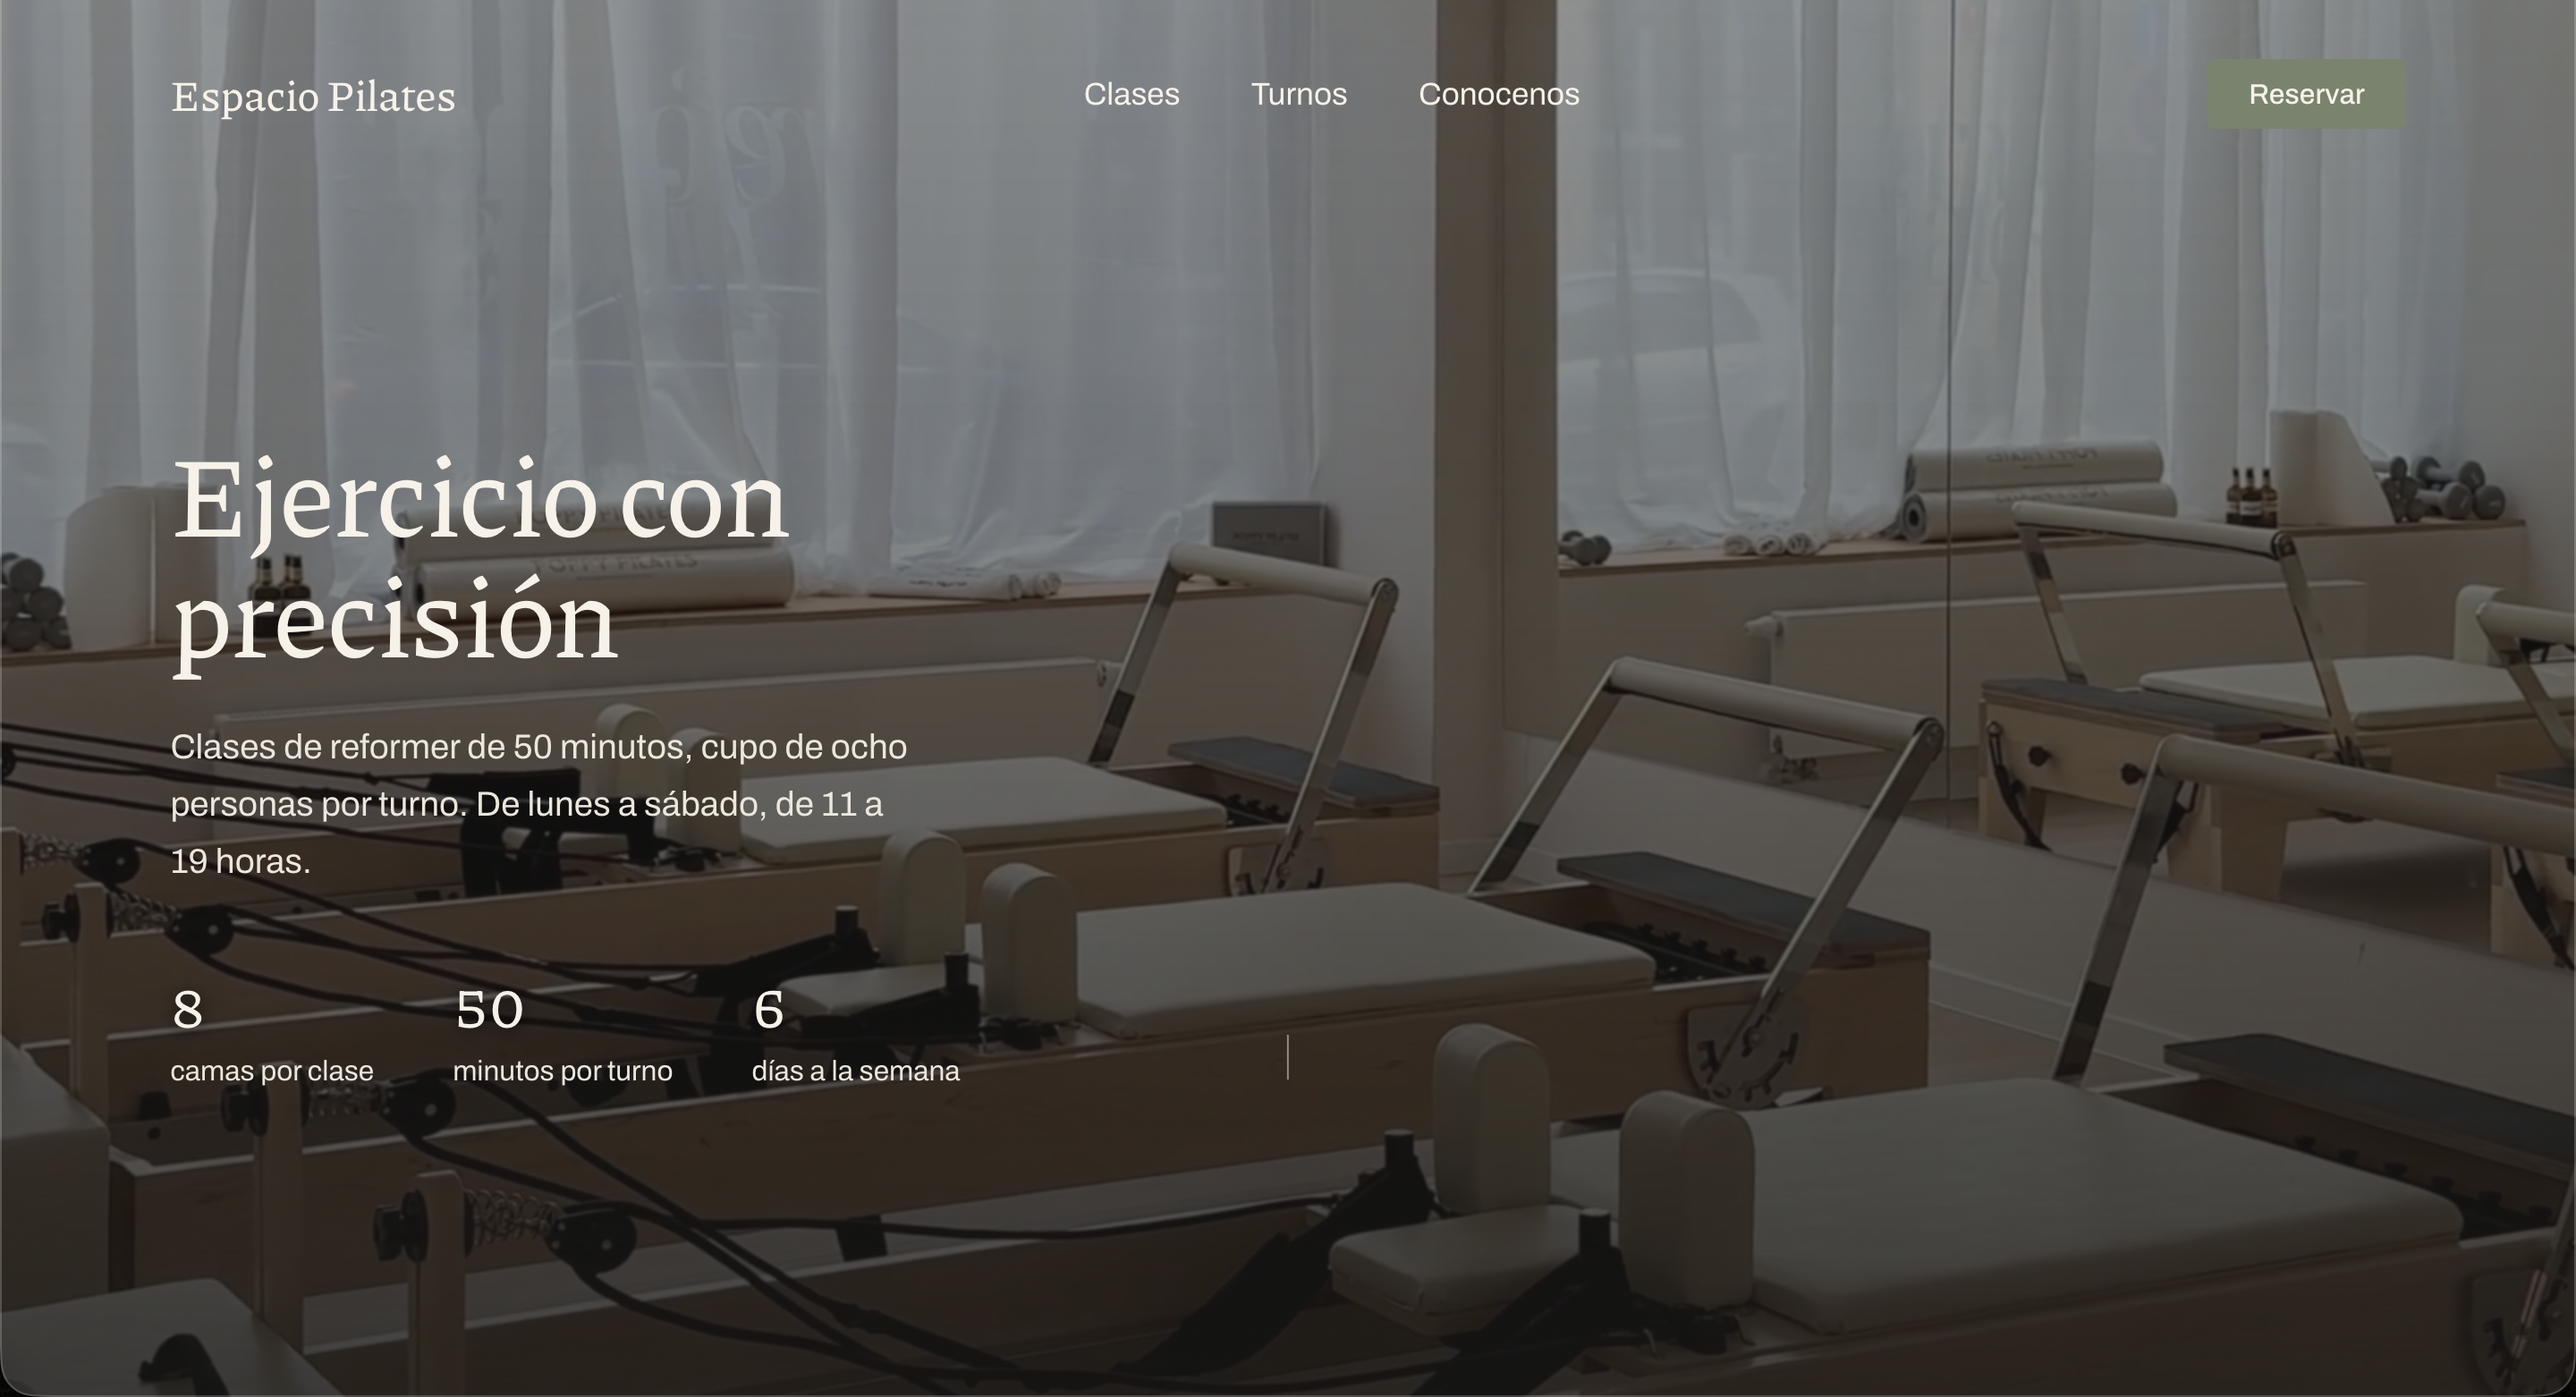
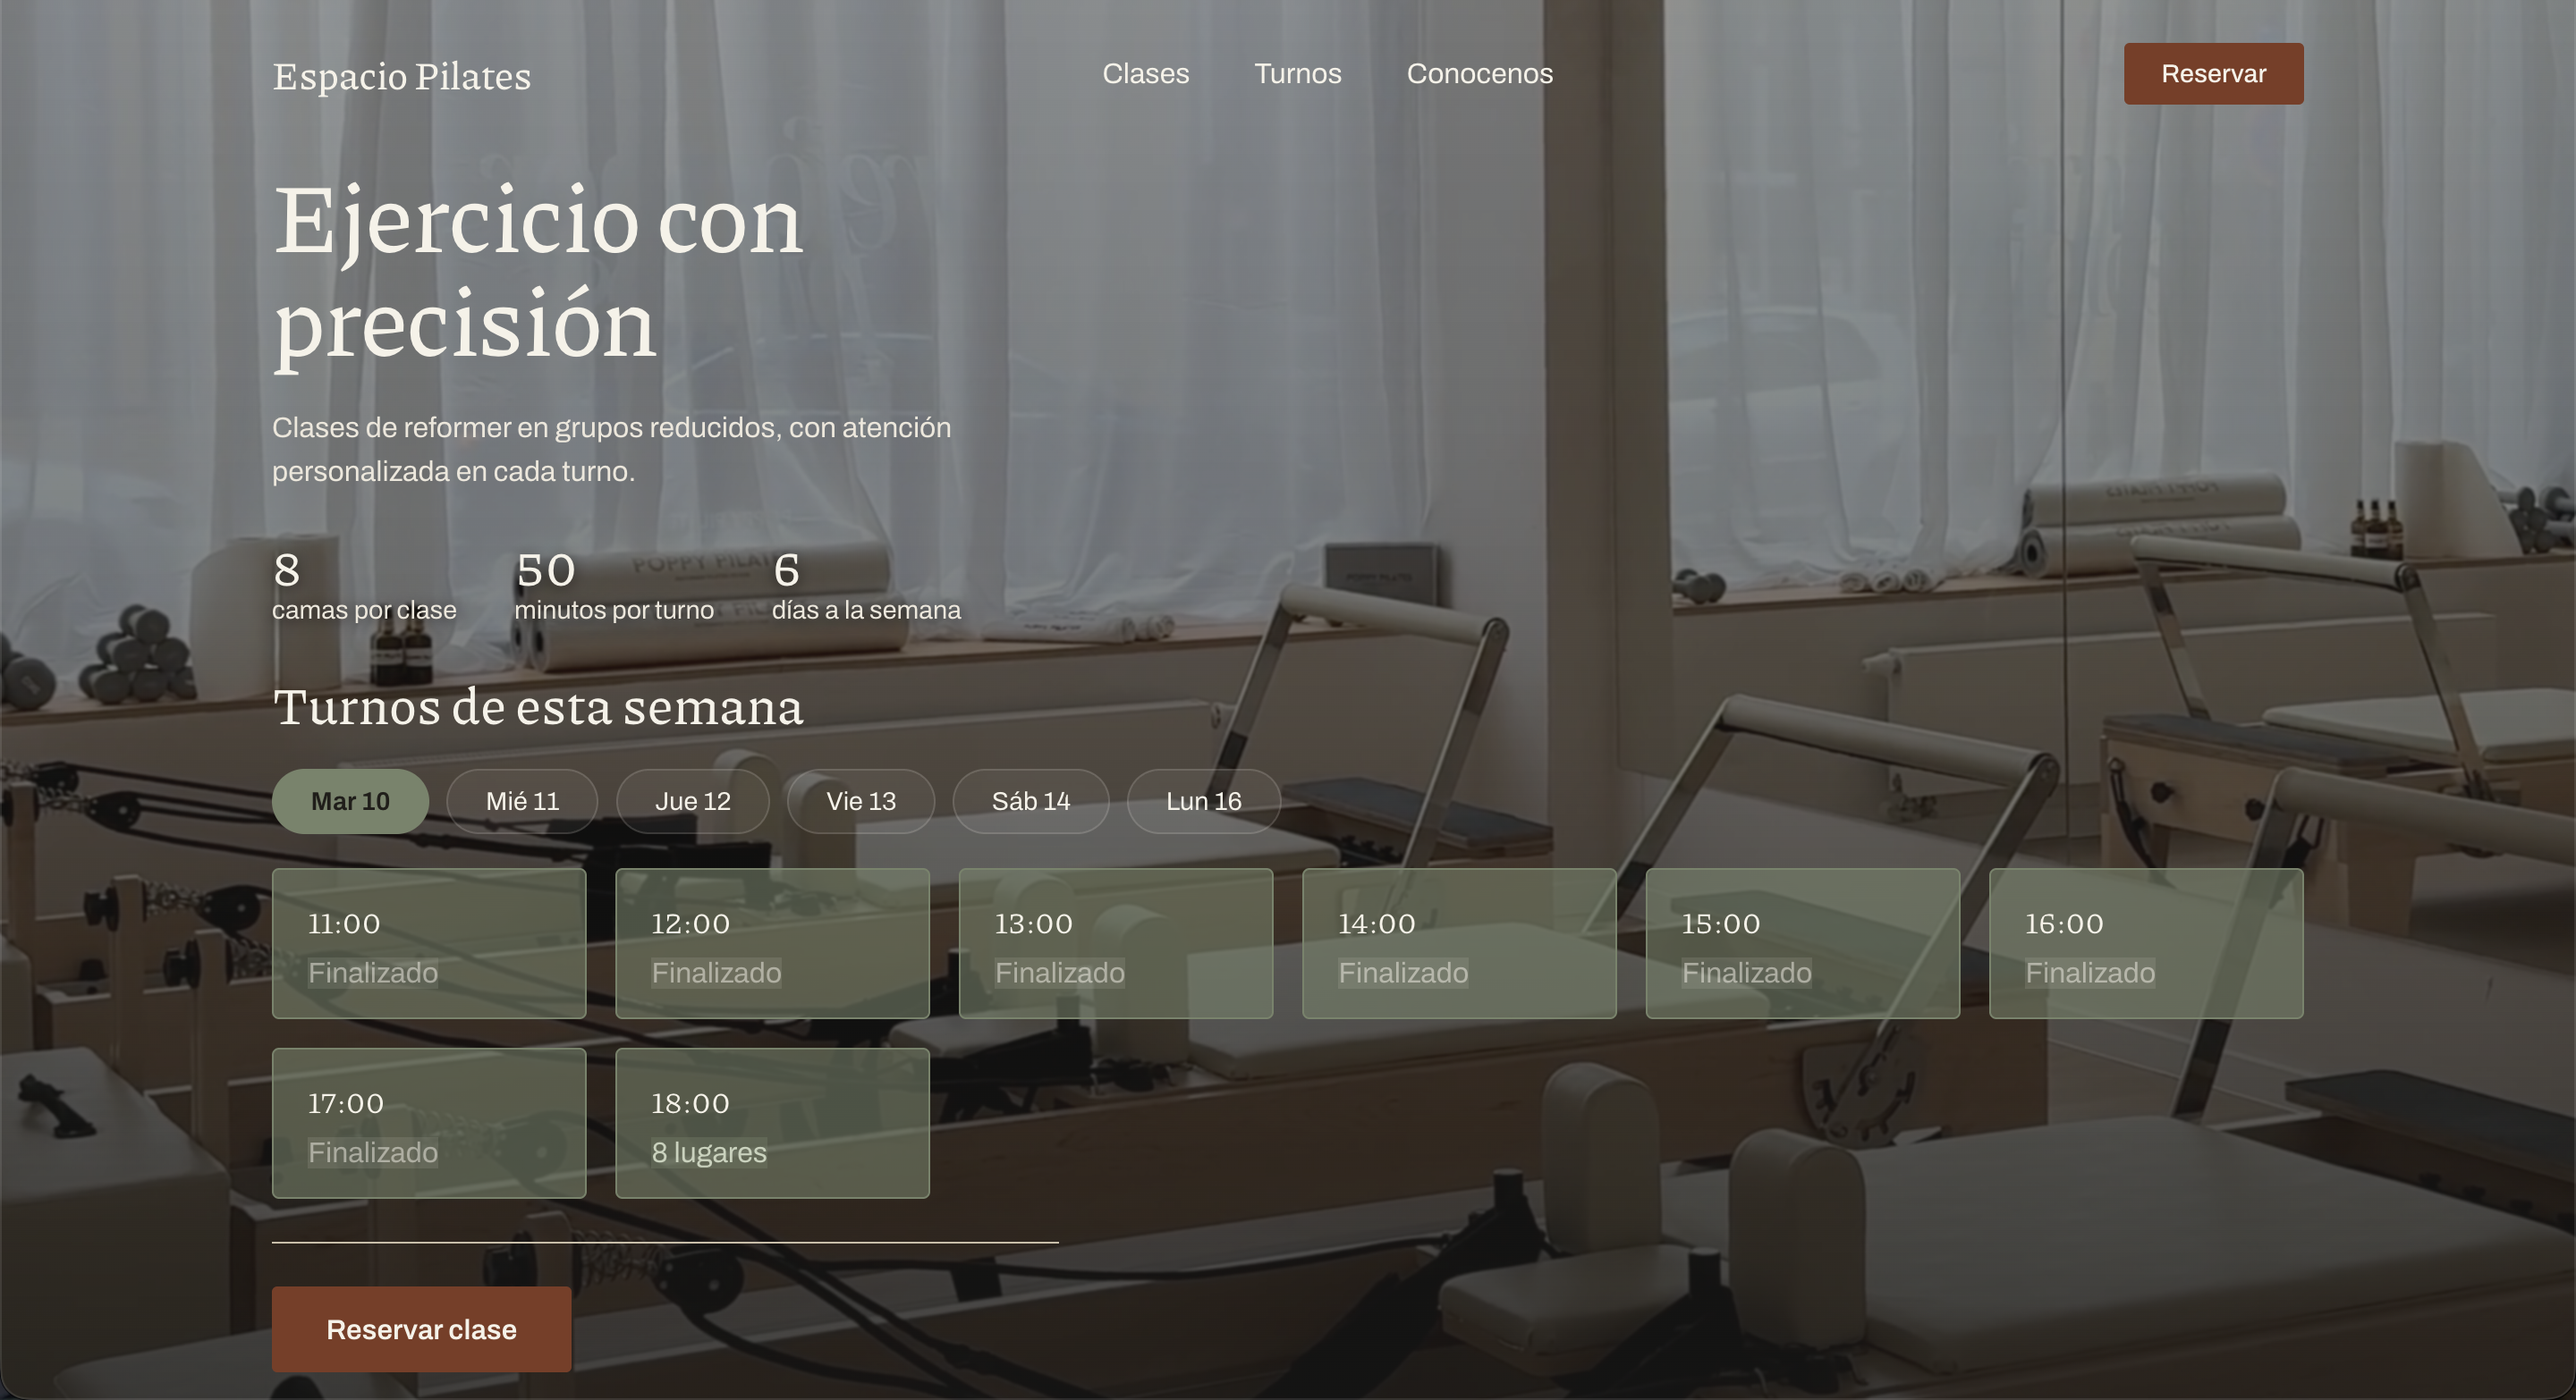
update on projects: description and photos

diff --git a/index.html b/index.html
@@ -132,14 +132,43 @@ I'm continuously learning new technologies and looking for my first opportunity 
   <div class="container">
       <h2>Projects</h2>
 
+
+<!-----------------------ATMOS-------------------------->
+<div class="project">
+  <div class="project-text">
+    <h3>ATMOS deco</h3>
+    <p>
+      E-commerce site for a Uruguay-based brand of 3D-printed bioplastic lamps, live at atmosdeco.uy. Product catalog with search, color variants (including made-to-order colors) and an image gallery. Checkout through the Mercado Pago API, with payments created server-side in Netlify Functions, plus a bank transfer flow; webhooks log every order to Google Sheets. Per-product share previews via a Netlify Edge Function, SEO setup (sitemap, canonical URLs, Search Console), and a responsive glassmorphism UI in vanilla HTML/CSS/JS.
+    </p>
+
+    <div class="project-tags">
+      <span>HTML</span>
+      <span>CSS</span>
+      <span>JavaScript</span>
+      <span>Netlify Functions</span>
+      <span>Mercado Pago API</span>
+      <span>SEO</span>
+      <span>Responsive</span>
+
+    </div>
+  </div>
+
+  <div class="project-media">
+    <img src="img/atmos.png" alt="ATMOS deco">
+    <div class="project-buttons">
+      <a href="https://atmosdeco.uy" class="btn">Live Demo</a>
+      <a href="https://github.com/okokchristian/ATMOSdeco.git" class="btn outline">GitHub</a>
+    </div>
+  </div>
+</div>
+
 <!-------------------------ESPACIO PILATES -------------------------->
 
 <div class="project">
   <div class="project-text">
     <h3>Espacio Pilates</h3>
     <p>
-      Booking system for a fictional pilates studio, with a Firebase/Firestore backend: real-time weekly agenda organized in day tabs, a reservation modal with form validation (name, email, phone), and Firestore transactions to prevent race conditions when multiple people book at the same time. Includes Firestore security rules (verified through manual penetration testing) that protect customer data and prevent client-side tampering with seat counts. A Node.js admin script (Firebase Admin SDK) automates weekly maintenance: resets availability across 44 time slots and archives the week's reservations to a Google Sheets history log, synced in real time via Zapier.
-    </p>
+Booking system for a fictional pilates studio, built on Firebase/Firestore. Real-time weekly agenda with day tabs and a validated reservation modal; Firestore transactions prevent double bookings when several people book the same slot. Security rules, manually penetration-tested, protect customer data and block client-side tampering with seat counts. A Node.js admin script (Firebase Admin SDK) resets availability across 44 time slots every week and archives reservations to a Google Sheets log via Zapier.    </p>
 
     <div class="project-tags">
   <span>Personal Project</span>
@@ -148,6 +177,7 @@ I'm continuously learning new technologies and looking for my first opportunity 
   <span>JavaScript</span>
   <span>Firebase</span>
   <span>Node.js</span>
+  <span>Zapier</span>
   <span>Responsive</span>
 </div>
   </div>
@@ -162,35 +192,9 @@ I'm continuously learning new technologies and looking for my first opportunity 
 </div>
 
 <!---------------------------------------------------------------------->
-    
-<!------------------
-<div class="project">
-  <div class="project-text">
-    <h3>ATMOS deco</h3>
-    <p>
-      Multi-page e-commerce site for a Uruguay-based brand selling handcrafted, 3D-printed bioplastic lamps. Built a full product catalog with search, an animated mobile nav, and an FAQ modal — all in vanilla HTML/CSS/JS. Integrated Mercado Pago payment links with dedicated status pages for a complete checkout flow, no backend required. Fully responsive, with glassmorphism UI and scroll-triggered animations throughout.
-    </p>
 
-    <div class="project-tags">
-      <span>Personal Project</span>
-      <span>HTML</span>
-      <span>CSS</span>
-      <span>JavaScript</span>
-      <span>Responsive</span>
-    </div>
-  </div>
-
-  <div class="project-media">
-    <img src="img/atmos.png" alt="ATMOS deco">
-    <div class="project-buttons">
-      <a href="https://atmosdeco.netlify.app/" class="btn">Live Demo</a>
-      <a href="https://github.com/okokchristian/ATMOSdeco.git" class="btn outline">GitHub</a>
-    </div>
-  </div>
-</div>
------------------------>
-
- <!----------------- PROYECTO LANDING ARTISTA --------->
+<!----------------- PROYECTO LANDING ARTISTA --------->
+<!-------------
 <div class="project">
   <div class="project-text">
     <h3>Artist Landing Page</h3>
@@ -217,7 +221,7 @@ I'm continuously learning new technologies and looking for my first opportunity 
     </div>
   </div>
 </div>
-
+-----!>
 
 <!----------------- PROYECTO VELAS --------------->
 <div class="project reverse">

diff --git a/styles.css b/styles.css
@@ -711,7 +711,11 @@ body.dark .about-photo {
 /* ----------------- botones e iconos de contacto) --------------*/
 
 .btn {
-  display: inline-block;
+  display: inline-flex;
+  align-items: center;
+  justify-content: center;
+  white-space: nowrap;
+  border: 1px solid transparent;
   padding: 10px 22px;
   background: var(--btn-bg);
   color: var(--btn-text);
